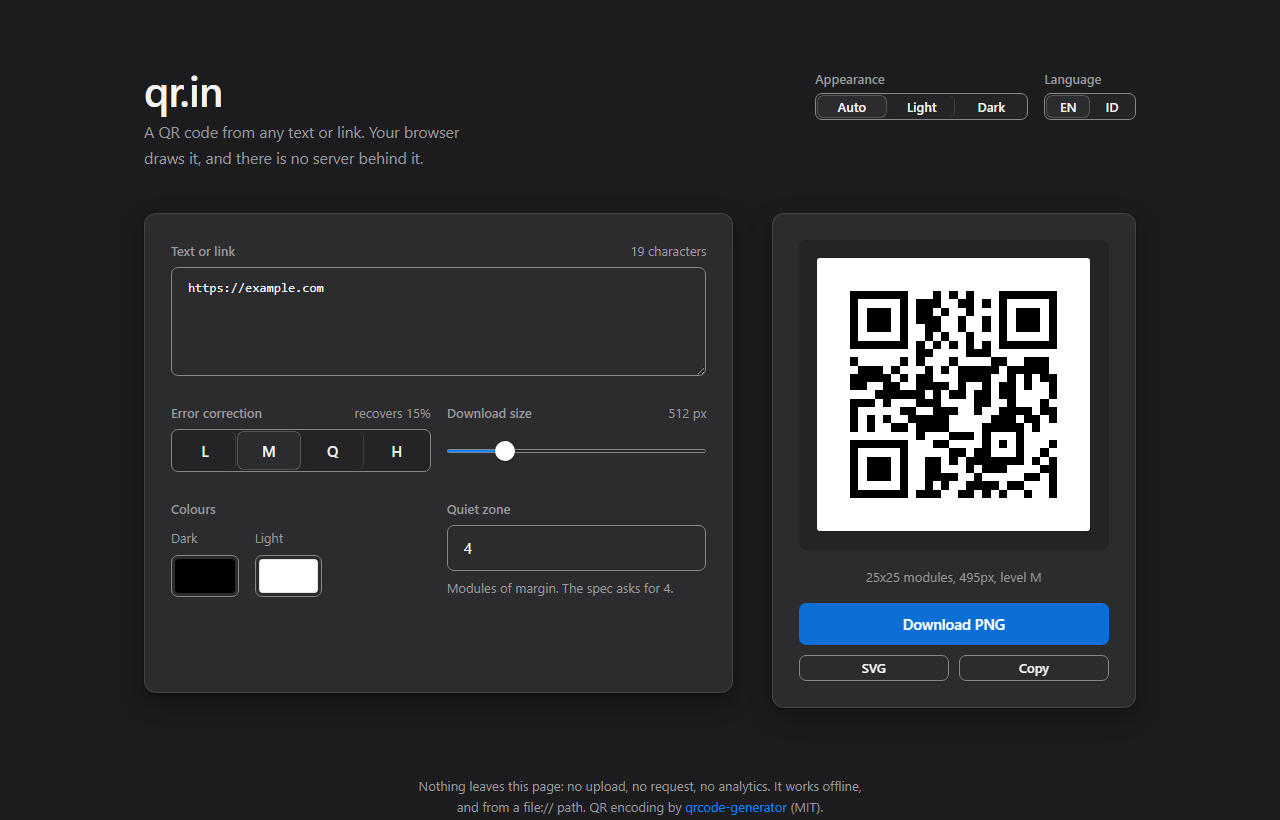
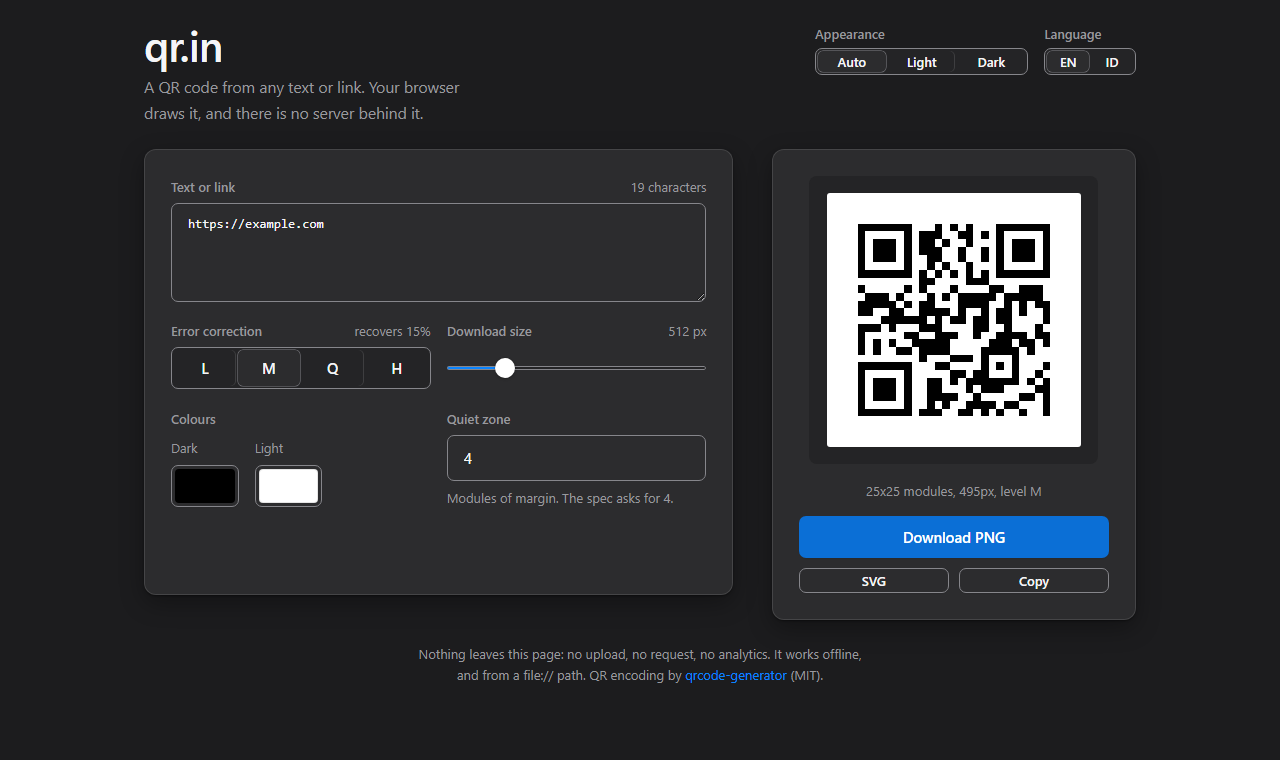
fix: fit the page to the viewport instead of scrolling
The outer padding, the header margin and the footer margin were all keyed to
the viewport's width: 6vw and 8vw. On a 1920 wide screen that came to 288px of
outer margin around 639px of content, so the footer sat below the fold and the
page scrolled on every laptop.

Vertical space is keyed to the viewport's height now, still clamped between two
rungs of the same phi ladder. The preview square and the gaps in both cards are
bounded by height as well, so they give way before a scrollbar appears.

Measured with a headless browser: 1920x1080, 1920x940, 1600x900, 1440x900,
1366x768, 1280x800 and 1024x768 all come to zero overflow, where every one of
them scrolled before. 1280x720 is 22px over and still scrolls. Switching
language moves nothing, which is unchanged and re-measured.

Screenshots retaken at the new spacing.

diff --git a/index.html b/index.html
@@ -117,8 +117,12 @@
 
       body {
         margin: 0;
-        padding: clamp(var(--phi-5), 6vw, var(--phi-7)) clamp(var(--phi-4), 4vw, var(--phi-5))
-          clamp(var(--phi-6), 8vw, var(--phi-8));
+        /* Vertical space is keyed to the viewport's height, horizontal space to
+           its width. Both used to come off 6vw and 8vw, so a wide monitor was
+           given 288px of outer margin for 639px of content and the footer fell
+           off the bottom of a laptop. The φ values are still the bounds. */
+        padding: clamp(var(--phi-4), 3vh, var(--phi-6)) clamp(var(--phi-4), 4vw, var(--phi-5))
+          clamp(var(--phi-5), 4vh, var(--phi-7));
         background: var(--bg);
         color: var(--ink);
         font: var(--text-body) / 1.618 -apple-system, BlinkMacSystemFont, "SF Pro Text", "Segoe UI",
@@ -138,7 +142,7 @@
         grid-template-columns: minmax(0, 1fr) auto;
         gap: var(--phi-4) var(--phi-5);
         align-items: start;
-        margin-bottom: var(--phi-6);
+        margin-bottom: clamp(var(--phi-4), 3vh, var(--phi-6));
       }
 
       h1 {
@@ -188,7 +192,9 @@
         box-shadow: var(--shadow-card);
       }
 
-      .controls { display: grid; gap: var(--phi-5); padding: var(--phi-5); }
+      /* The gaps between the groups close up before anything else does: on a
+         short screen a smaller gap is cheaper than a scrollbar. */
+      .controls { display: grid; gap: clamp(var(--phi-3), 2.4vh, var(--phi-5)); padding: var(--phi-5); }
       .field { display: grid; gap: var(--phi-2); }
 
       label, .label {
@@ -216,7 +222,7 @@
 
       textarea {
         width: 100%;
-        min-height: var(--phi-8);
+        min-height: min(var(--phi-8), 13vh);
         resize: vertical;
         font-family: ui-monospace, "SF Mono", SFMono-Regular, Menlo, monospace;
         font-size: var(--text-caption);
@@ -366,7 +372,7 @@
         top: var(--phi-5);
         padding: var(--phi-5);
         display: grid;
-        gap: var(--phi-4);
+        gap: clamp(var(--phi-3), 2vh, var(--phi-4));
         justify-items: center;
       }
 
@@ -375,7 +381,9 @@
          how large it is on screen. */
       .frame {
         width: 100%;
-        max-width: 20rem;
+        /* Bounded by height as well as width, so the square shrinks on a short
+           screen instead of pushing the page past the bottom of it. */
+        max-width: min(20rem, 38vh);
         aspect-ratio: 1;
         display: grid;
         place-items: center;
@@ -429,7 +437,7 @@
 
       footer {
         max-width: 66ch;
-        margin: clamp(var(--phi-6), 8vw, var(--phi-7)) auto 0;
+        margin: clamp(var(--phi-4), 3vh, var(--phi-6)) auto 0;
         color: var(--muted);
         font-size: var(--text-caption);
         text-align: center;

diff --git a/README.md b/README.md
@@ -72,6 +72,14 @@ worth stating:
 Every gap and type size comes from one ratio, φ = 1.618, declared as custom
 properties at the top of the stylesheet. Change `--phi-4` and the page rescales.
 
+Where a gap flexes it flexes between two rungs of that ladder and never outside
+them, and vertical space is keyed to the viewport's height while horizontal space
+is keyed to its width. That sounds obvious and was originally wrong: the outer
+padding was `6vw` and `8vw`, so a wide monitor was handed 288px of margin for
+639px of content and pushed the footer off the bottom of a laptop. On a 1920x1080
+screen the whole page now fits without a scrollbar, and down to a 672px viewport
+the preview square and the gaps give way before the page starts scrolling.
+
 ### Type
 
 Two ladders, because the page is half prose and half control panel. Prose runs
